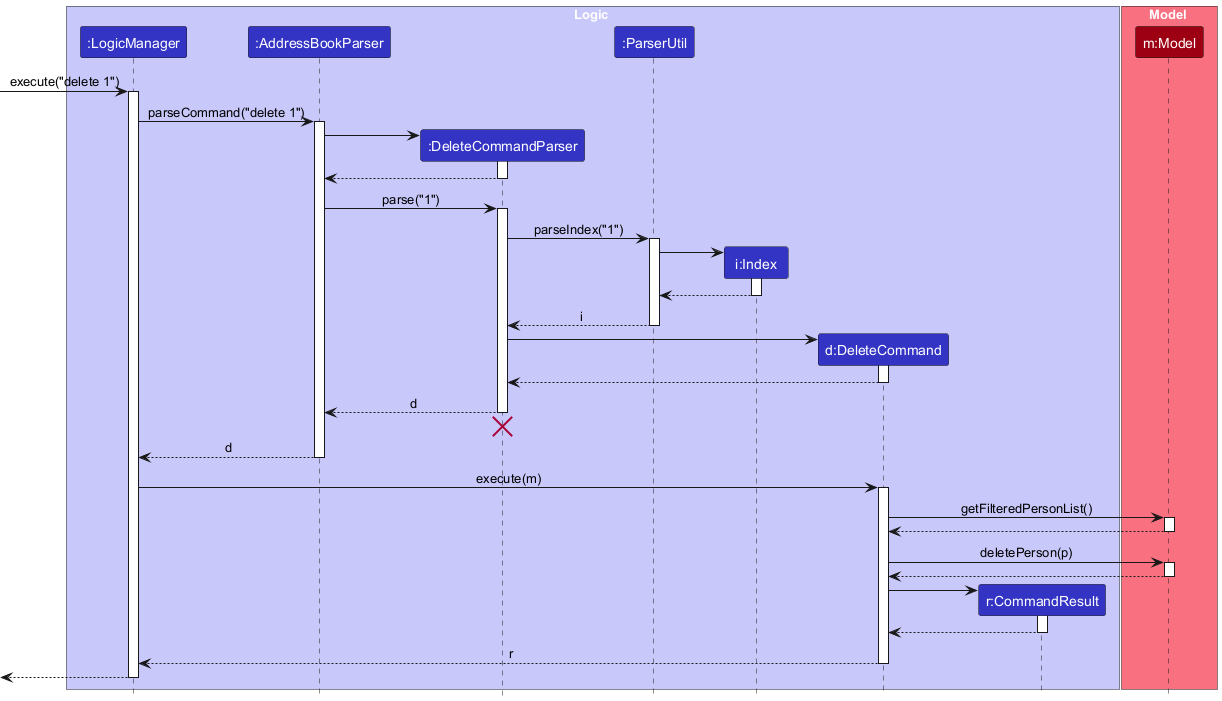
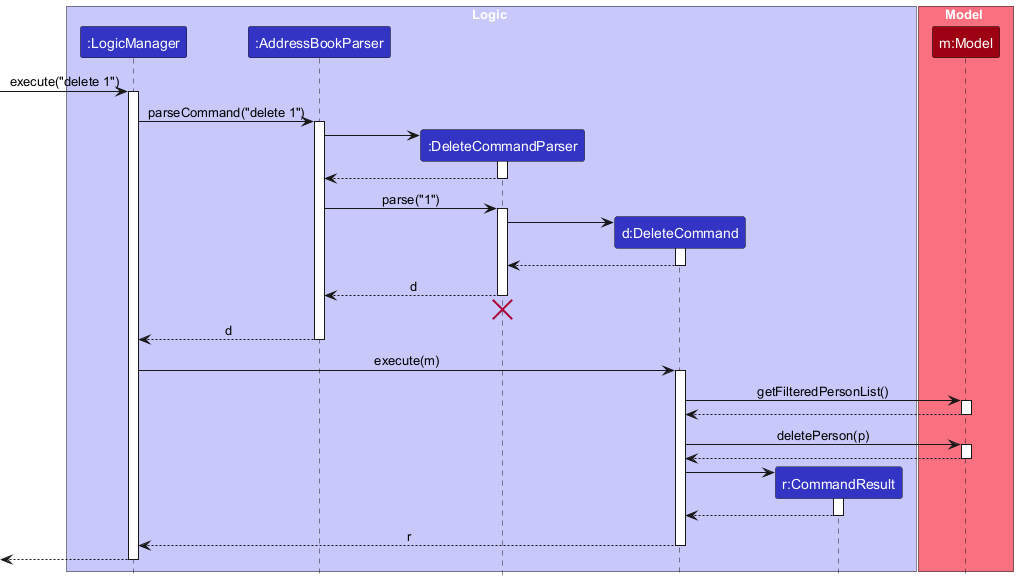
Remove parseutil from sequence diagram

diff --git a/docs/DeveloperGuide.md b/docs/DeveloperGuide.md
@@ -98,7 +98,10 @@ The sequence diagram below illustrates the interactions within the `Logic` compo
 
 ![Interactions Inside the Logic Component for the `delete 1` Command](images/DeleteSequenceDiagram.png)
 
-<div markdown="span" class="alert alert-info">:information_source: **Note:** The lifeline for `DeleteCommandParser` should end at the destroy marker (X) but due to a limitation of PlantUML, the lifeline continues till the end of diagram.
+<div markdown="span" class="alert alert-info">
+
+:information_source: **Note:** The lifeline for `DeleteCommandParser` should end at the destroy marker (X) but due to a limitation of PlantUML, the lifeline continues till the end of diagram.
+
 </div>
 
 How the `Logic` component works:
@@ -281,14 +284,14 @@ particular, this representative works with B2B sales.
 
 Priorities: High (must have) - `* * *`, Medium (nice to have) - `* *`, Low (unlikely to have) - `*`
 
-| Priority | As a …           | I want to …                                                                 | So that I can …                                                       |
-| -------- | ---------------- |-----------------------------------------------------------------------------|-----------------------------------------------------------------------|
-| `* * *`  | user             | add a new contact                                                           | save the contact information of people                                |
-| `* * *`  | user             | delete a contact                                                            | free up space in my app                                               |
-| `* * *`  | user             | view all contact                                                            | see the full list of contacts                                         |
-| `* * *`  | user             | view a contact                                                              | retrieve contact information of a person                              |
-| `* * *`  | user             | save all contact                                                            | retain all information for when i reopen the app                      |
-| `* * *`  | sales rep        | have a low query time                                                       | avoid wasting much time querying my desired contact                   |
+| Priority | As a …           | I want to …                                                                 | So that I can …                                                        |
+| -------- | ---------------- | --------------------------------------------------------------------------- | ---------------------------------------------------------------------- |
+| `* * *`  | user             | add a new contact                                                           | save the contact information of people                                 |
+| `* * *`  | user             | delete a contact                                                            | free up space in my app                                                |
+| `* * *`  | user             | view all contact                                                            | see the full list of contacts                                          |
+| `* * *`  | user             | view a contact                                                              | retrieve contact information of a person                               |
+| `* * *`  | user             | save all contact                                                            | retain all information for when i reopen the app                       |
+| `* * *`  | sales rep        | have a low query time                                                       | avoid wasting much time querying my desired contact                    |
 | `* *`    | user             | find a person by name                                                       | locate details of persons without having to go through the entire list |
 | `* *`    | user             | search through my contacts                                                  | find a specific person                                                 |
 | `* *`    | new user         | see usage instructions                                                      | know how to use the app                                                |
@@ -305,7 +308,7 @@ Priorities: High (must have) - `* * *`, Medium (nice to have) - `* *`, Low (unli
 | `* *`    | sales rep        | remember the client's preferred products                                    | recommend related products                                             |
 | `* *`    | sales rep        | add notes to client's contact                                               | keep track of my conversation with them                                |
 | `* *`    | sales rep        | edit notes saved to client's contact                                        | keep track of my conversation with them                                |
-| `* *`    | sales rep        | delete notes from a client's contact                                        | remove incorrect or outdated notes                                    |
+| `* *`    | sales rep        | delete notes from a client's contact                                        | remove incorrect or outdated notes                                     |
 | `* *`    | sales rep        | group my clients by industry                                                | tell if sales are doing well in that industry among other metrics      |
 | `* *`    | sales rep        | add tags to clients                                                         | categorize them                                                        |
 | `* *`    | sales rep        | keep note of my client's email addresses                                    | potentially send promotions or survey forms                            |
@@ -455,6 +458,7 @@ Priorities: High (must have) - `* * *`, Medium (nice to have) - `* *`, Low (unli
 **Use case: UC8 - Export contact list**
 
 **MSS**
+
 1.  Actor requests to export contact list to a specific file.
 2.  System exports the contact information into the file.
 
@@ -464,19 +468,20 @@ Priorities: High (must have) - `* * *`, Medium (nice to have) - `* *`, Low (unli
 
 - 1a. System detects that the directory does not exist.
 
-    - 1a1. System creates the directory.
+  - 1a1. System creates the directory.
 
-      Use case resumes from step 2.
+    Use case resumes from step 2.
 
 - 1b. System detects that the file is used by another process.
 
-    - 1b1. System shows an error message.
+  - 1b1. System shows an error message.
 
-      Use case ends.
+    Use case ends.
 
 **Use case: UC9 - Edit a note of a person contact**
 
 **MSS**
+
 1.  Actor performs <u>list all people (UC2)</u>.
 2.  Actor requests to edit a note to a specific person.
 3.  System shows details of the newly edited note of that person.
@@ -487,22 +492,21 @@ Priorities: High (must have) - `* * *`, Medium (nice to have) - `* *`, Low (unli
 
 - 2a. The specified person is invalid.
 
-    - 2a1. System shows an error message.
+  - 2a1. System shows an error message.
 
-      Use case ends.
-
+    Use case ends.
 
 - 2b. The note name is invalid.
 
-    - 2b1. System shows an error message.
+  - 2b1. System shows an error message.
 
-      Use case ends.
+    Use case ends.
 
 - 2c. The note index is invalid.
 
-    - 2c1. System shows an error message.
+  - 2c1. System shows an error message.
 
-      Use case ends.
+    Use case ends.
 
 **Use case: UC10 - Delete note from a person contact**
 
@@ -518,15 +522,15 @@ Priorities: High (must have) - `* * *`, Medium (nice to have) - `* *`, Low (unli
 
 - 2a. The specified person is invalid.
 
-    - 2a1. System shows an error message.
+  - 2a1. System shows an error message.
 
-      Use case ends.
+    Use case ends.
 
 - 2b. The note index is invalid.
 
-    - 2b1. System shows an error message.
+  - 2b1. System shows an error message.
 
-      Use case ends.
+    Use case ends.
 
 ### Non-Functional Requirements
 
